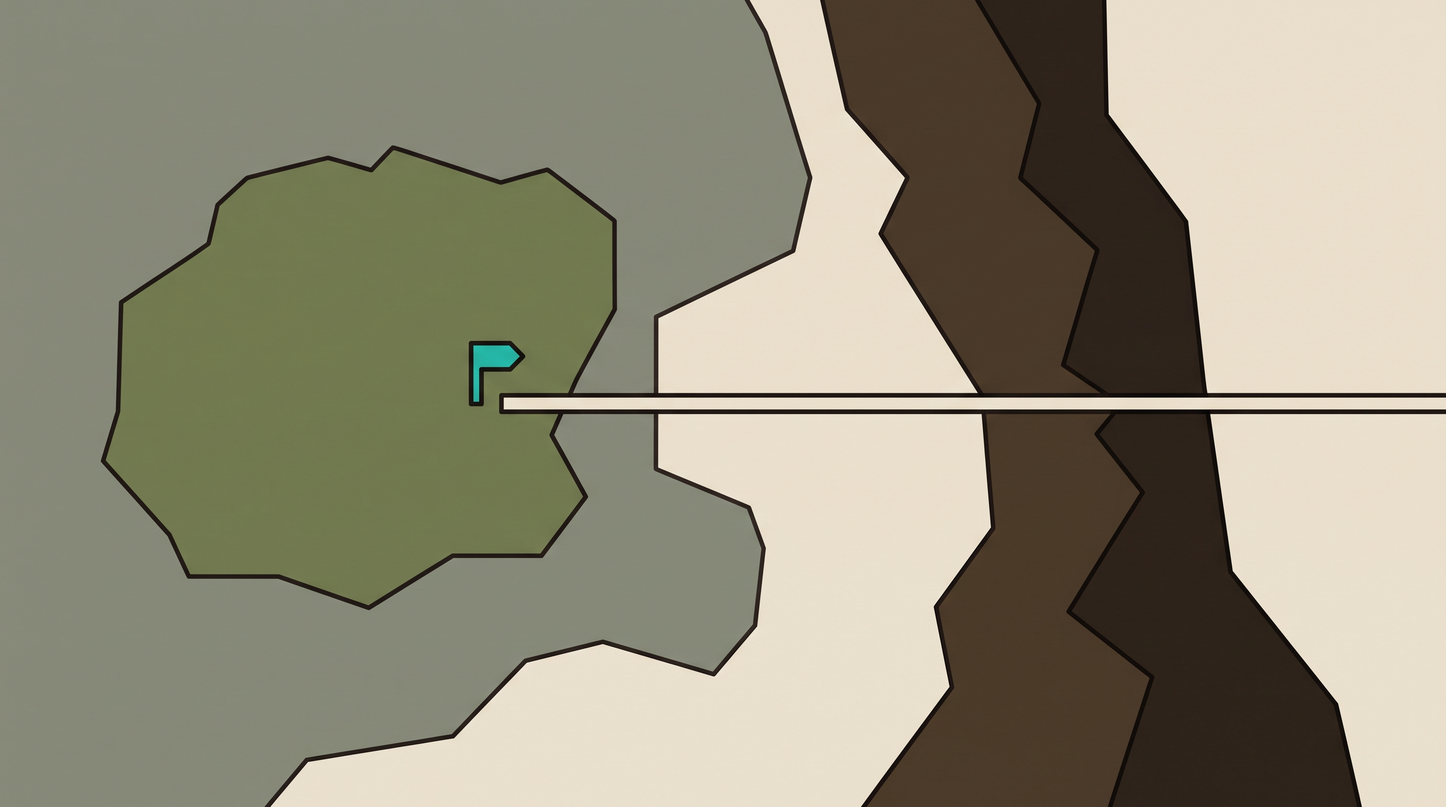
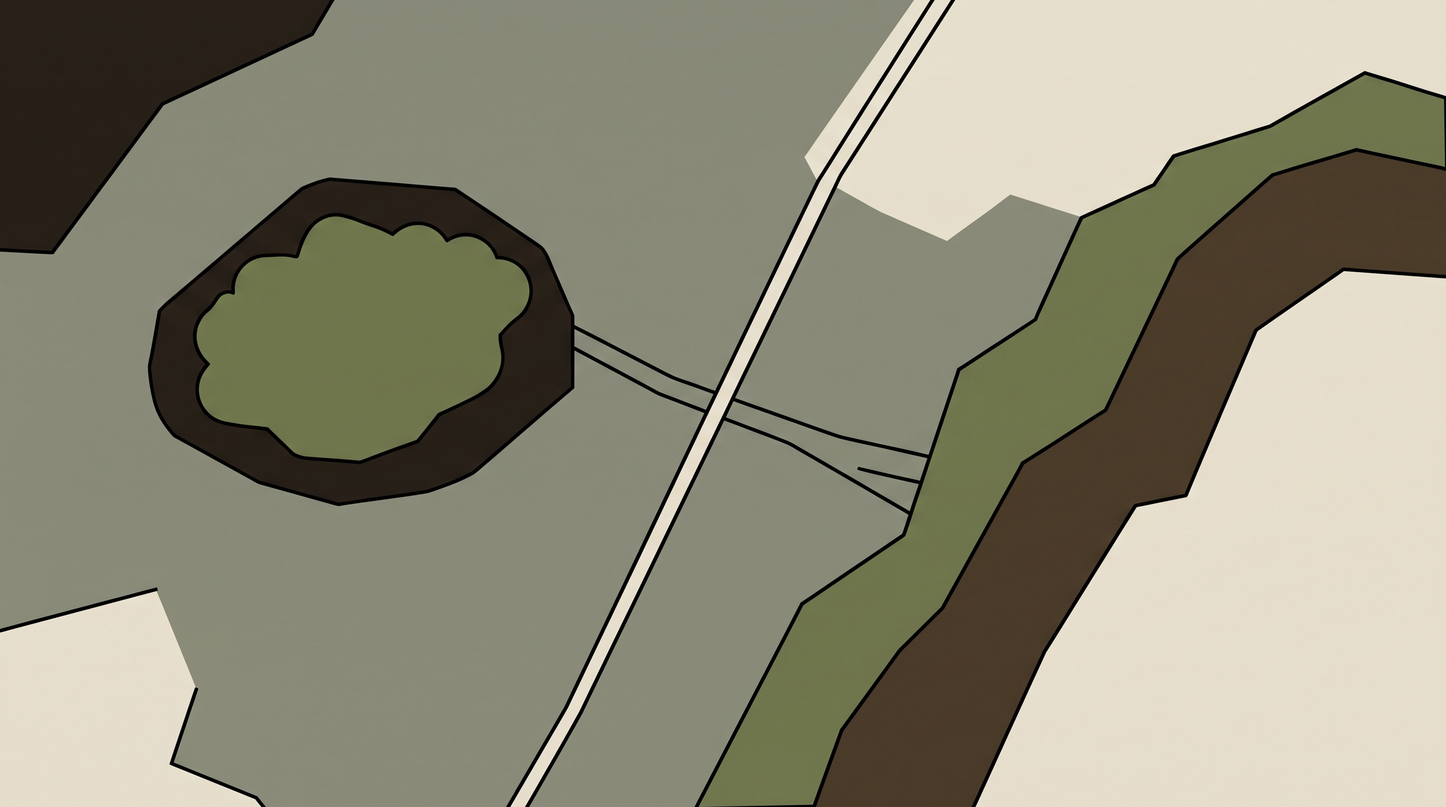
Stapel 3: 10 von 11 bestanden, Groessenregel verstanden
22 Credits, Gesamt 108. Alle drei Nachlaeufe (M10, M16, M22) bestanden - der
KEIN_SIGNAL-Zusatz wirkt. Durchgefallen nur M24, Einzelfall.

M29 bestaetigt die These der Vorsitzung zur Groessenregel: Sie greift bei
offener Flaeche (M08) und versagt, sobald eine dominante Leitlinie im Bild
liegt (M06 Wasserlauf, M62 Strassenbett, M29 Grabungsschnitt). Drei
Formulierungen geprueft, alle ohne Wirkung. Konsequenz fuer den
Machart-Block: Wer eine kleine Figur braucht, muss den Bildaufbau aendern,
nicht den Prompt.

Claude-Session: https://claude.ai/code/session_01JzJDASz3JXAUBk8mVVVkBz

diff --git a/produktion/video-01/bildplan.py b/produktion/video-01/bildplan.py
@@ -132,7 +132,7 @@ SIGNAL = (" SIGNAL COLOUR: exactly ONE object in the image carries the turquoise
 # Motive ohne Signalfarbtraeger: hier ist Tuerkis ganz abwesend. Die Regel
 # erlaubt das ausdruecklich ("if no single object needs marking"), aber das
 # Modell sucht sich sonst einen Traeger - in M49 mehrere Pflanzen am Bildrand.
-OHNE_SIGNAL = {"M02", "M49"}
+OHNE_SIGNAL = {"M02", "M10", "M16", "M22", "M49"}
 KEIN_SIGNAL = (" SIGNAL COLOUR: this picture contains no turquoise at all - "
                "nothing in it carries the signal colour.")
 
@@ -368,7 +368,7 @@ SZENE_EN = {
  "M07": "close view: the character kneels and lays a pale wooden plank onto the soft ground, the water stopping at its edge",
  "M08": "a wide bog surface with cushions of peat moss and open black eyes of water, the character standing small in the middle, a broad band of sky filling the upper third",
  "M09": "close view of bog ground: a boot sinks to the shaft in black water between moss cushions",
- "M10": "a wide marsh landscape in morning mist: bands of reeds, open sheets of water, a wooded island on the horizon - untouched wetland before anything was ever built here, with no walkway, no boardwalk, no plank track, no path, no bridge, no hut, no house and no building of any kind anywhere in the picture",
+ "M10": "a wide marsh landscape in morning mist: bands of reeds, open sheets of water, a wooded island on the horizon - untouched wetland before anything was ever built here, with no walkway, no boardwalk, no plank track, no path, no bridge, no hut, no house, no boat, no canoe, no raft and no building or craft of any kind anywhere in the picture",
  "M11": "the same marsh landscape, now with the character at the shore and a first plank lying in the reeds",
  "M12": "a frame-filling cross-section slice of an oak trunk, concentric annual rings as flat rings",
  "M13": "the same sequence of rings unrolled into a straight band, wide and narrow rings alternating",

diff --git a/produktion/video-01/bilder/_protokoll.md b/produktion/video-01/bilder/_protokoll.md
@@ -1,0 +1,37 @@
+# Prüfprotokoll Hauptlauf (Fortsetzung)
+
+| Stapel | Motive | bestanden | durchgefallen |
+|---|---|---|---|
+| 1 | M02–M14 | 8/11 | M02, M09, M10 |
+| 2 | M02, M09, M10, M15–M22 | 8/11 | M10, M16, M22 |
+| 3 | M10, M16, M22, M23–M31 | **10/11** | M24 |
+
+## Stapel 3 im Einzelnen
+
+**Alle drei Nachläufe bestanden.** M10 zeigt die Marsch ohne Steg, ohne Hütte
+und ohne Boot; M16 hat keine Buchstabenform mehr; M22 trägt nur noch ein
+Signalobjekt. Der `KEIN_SIGNAL`-Zusatz wirkt in allen drei Fällen.
+
+**Durchgefallen: M24** — verlangt ist der Blick *unter* die Wasseroberfläche
+mit einer zweiten, älteren Bohlenlinie darunter. Geliefert ist eine Brücke von
+der Seite über dem Wasser. Einzelfall, keine gemeinsame Ursache.
+
+## Die Größenregel ist verstanden — M29 bestätigt die These
+
+| Motiv | Vordergrund | Größenregel |
+|---|---|---|
+| **M08** | offene Moorfläche, keine Leitlinie | **greift** |
+| M06 | Wasserlauf zieht diagonal durchs Bild | versagt |
+| M62 | Straßenbett als Fluchtlinie zur Bildmitte | versagt |
+| **M29** | **Grabungsschnitt als dominante Diagonale** | **versagt** |
+
+**Befund für den Machart-Block künftiger Videos:** Die Größenangabe für eine
+kleine Figur setzt sich nur durch, wenn das Bild keine dominante Leitlinie
+enthält. Sobald eine Fluchtlinie, ein Weg oder ein Grabenrand durchs Bild
+zieht, richtet das Modell die Figur daran aus und skaliert sie auf
+Normalgröße — unabhängig davon, wie die Größenvorgabe formuliert ist (drei
+Formulierungen geprüft: Bruchzahl, Beschreibung, Bildanteil).
+
+**Konsequenz:** Wer eine kleine Figur braucht, muss den Bildaufbau ändern,
+nicht den Prompt. Entweder die Leitlinie aus der Szene nehmen oder die
+Figurengröße als gegeben hinnehmen.
